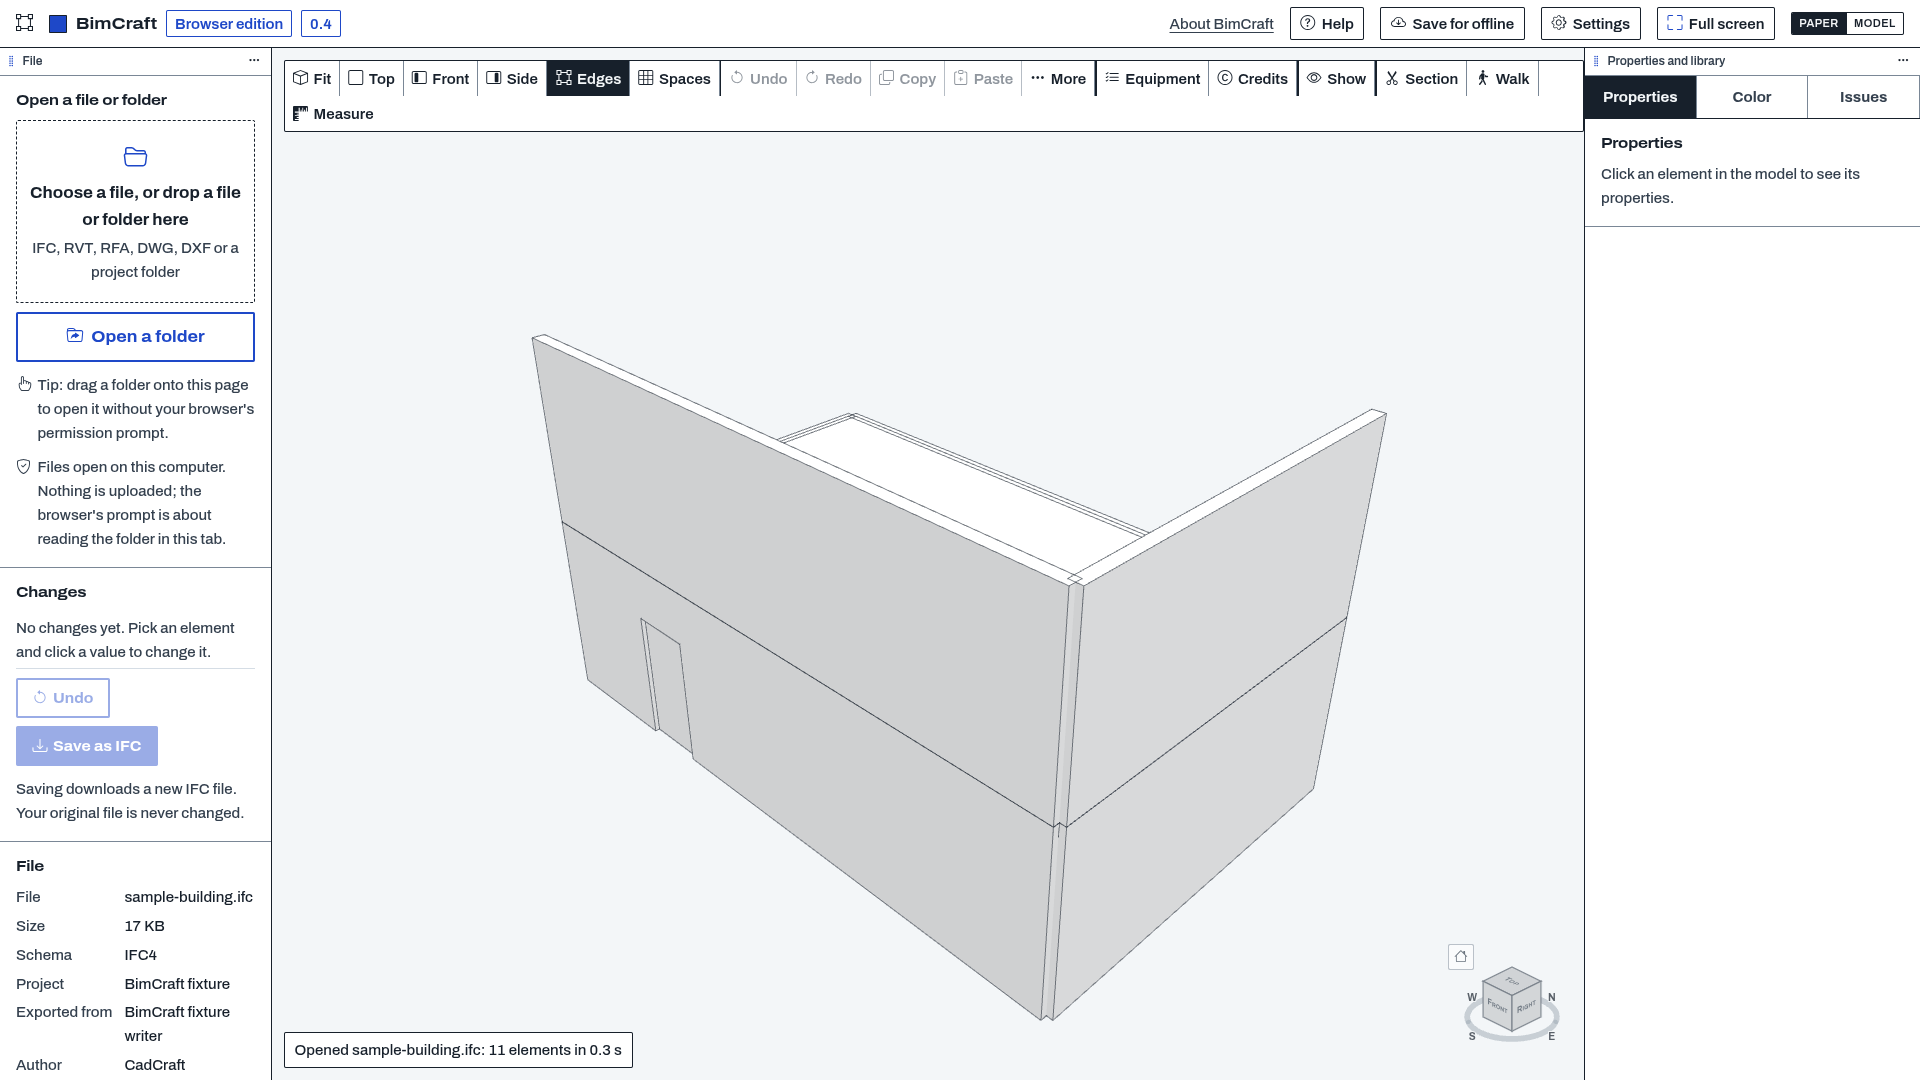
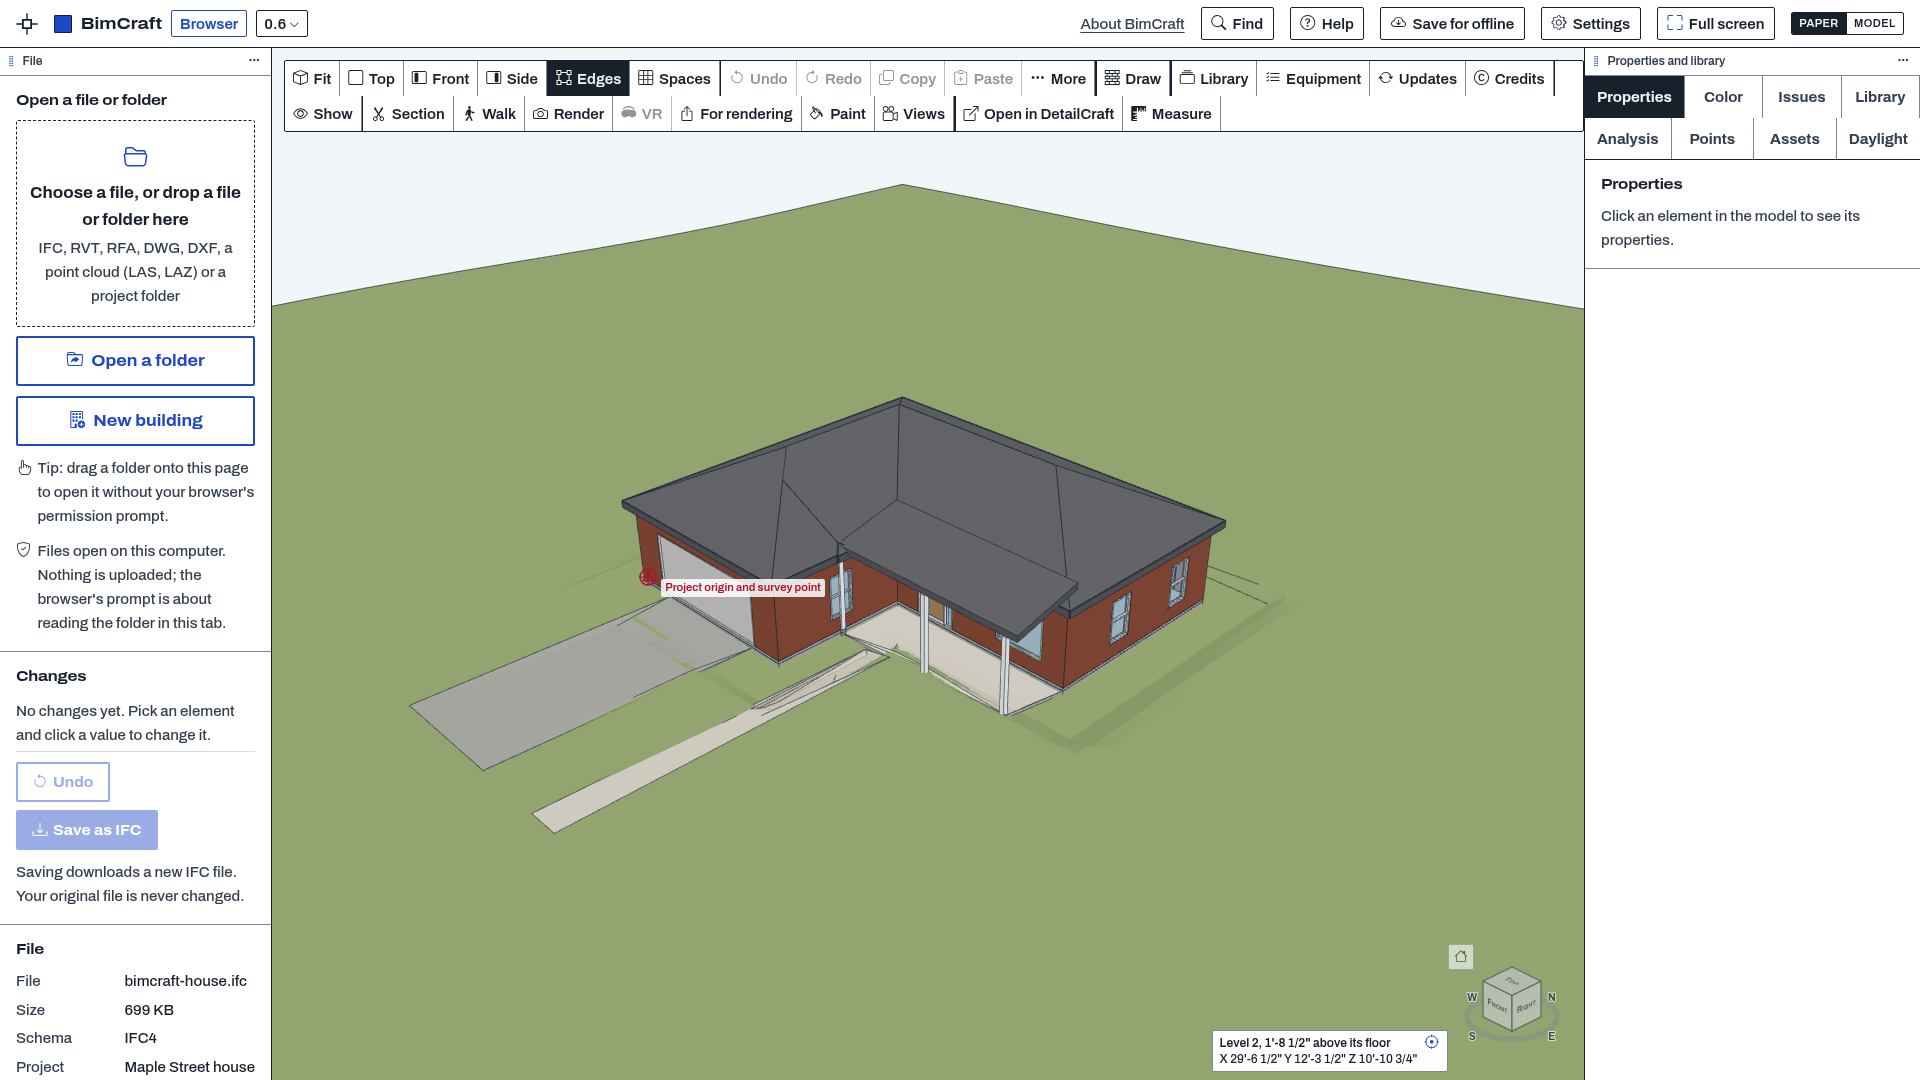
README for 0.6: use links, Studio is the desktop download, platform pages updated (macOS follows, signing and stores in 0.7)

diff --git a/README.md b/README.md
@@ -4,26 +4,25 @@
 
 One model. Every plan, section and schedule.
 
-**[Website](https://getcadcraft.com/apps/bimcraft) | [Try it in your browser](https://getcadcraft.com/try/bimcraft) | [Download](https://getcadcraft.com/download/bimcraft) | [Help and tutorials](https://getcadcraft.com/tutorials/bimcraft) | [News](https://getcadcraft.com/news) | [Suggest a feature](https://getcadcraft.com/suggest)**
+**[Website](https://getcadcraft.com/apps/bimcraft) | [Use it in your browser](https://getcadcraft.com/use/bimcraft) | [Download CadCraft Studio](https://getcadcraft.com/download#studio) | [Help and tutorials](https://getcadcraft.com/tutorials/bimcraft) | [News](https://getcadcraft.com/news) | [Suggest a feature](https://getcadcraft.com/suggest)**
 
-[![BimCraft 0.4](screenshots/paper.png)](https://getcadcraft.com/try/bimcraft)
+[![BimCraft](screenshots/paper.png)](https://getcadcraft.com/use/bimcraft)
 
-<sub>Paper space above; [the same in model space](screenshots/model.png). Both are the 0.4 browser edition.</sub>
+<sub>Paper space above; [the same in model space](screenshots/model.png). Both are from the browser edition.</sub>
 
 BimCraft is the BIM authoring app in the [CadCraft](https://getcadcraft.com) family: Parametric walls, doors and windows on levels and grids, with views, schedules, sheets and clash checks from one model.
 
 ## Use it
 
-Try it now at https://getcadcraft.com/try/bimcraft, or get it for your platform. Your files stay on your computer either way.
+Use it now at https://getcadcraft.com/use/bimcraft, or install CadCraft Studio, which carries all eight apps. Your files stay on your computer either way.
 
 | Platform | Status |
 |---|---|
-| [Browser](web/) | 0.4: `bimcraft-browser-edition-v0.4.0.zip` in [Releases](https://github.com/getcadcraft/bimcraft/releases), or [`web/v0.4/`](web/v0.4/) from a clone |
-| [Windows](windows/) | 0.4: installer in [Releases](https://github.com/getcadcraft/bimcraft/releases) (not code-signed yet) |
-| [Linux](linux/) | 0.4: `.deb` and AppImage in [Releases](https://github.com/getcadcraft/bimcraft/releases); Flathub manifest in [`linux/flathub/`](linux/flathub/) |
-| [macOS](macos/) | Coming in 0.5 |
-| [iPad](ios/) | Planned |
-| [Android](android/) | Planned |
+| [Browser](web/) | 0.6: `bimcraft-browser-edition-v0.6.0.zip` in [Releases](https://github.com/getcadcraft/bimcraft/releases), or [`web/v0.4/`](web/v0.4/) (older) from a clone |
+| Desktop: [Windows](windows/), [Linux](linux/) | In [CadCraft Studio 0.6](https://github.com/getcadcraft/studio/releases/tag/studio-v0.6.0) (installer, `.deb`, AppImage); not code-signed yet |
+| [macOS](macos/) | Studio 0.6 for macOS follows; Studio 0.5 for Mac is on the [download page](https://getcadcraft.com/download#studio) |
+| [Android](android/) | The Studio APK, on the [download page](https://getcadcraft.com/download#studio) |
+| [iPad](ios/) | Planned, in 0.7 at the earliest |
 
 ## Work on it
 

diff --git a/windows/README.md b/windows/README.md
@@ -1,10 +1,6 @@
 # BimCraft for Windows
 
-**Available from 0.4.** Download `BimCraft-0.4-setup.exe` from [Releases](https://github.com/getcadcraft/bimcraft/releases).
-
-The installer is the [browser edition](../web/), unchanged, in a WebView2 window (part of Windows 10 and 11), built by [getcadcraft/desktop-shell](https://github.com/getcadcraft/desktop-shell) (`node build.mjs bimcraft --edition <zip>`). Nothing here to compile.
-
-**Not code-signed yet:** Windows SmartScreen shows "Windows protected your PC"; choose **More info › Run anyway**, and check the file against SHA256SUMS first. The Microsoft Store package follows once it is signed.
+BimCraft comes inside [CadCraft Studio](https://github.com/getcadcraft/studio) (all eight apps in one install) from 0.5 on; there are no separate BimCraft installers any more. Get Studio 0.6 from the [download page](https://getcadcraft.com/download#studio) or its [GitHub release](https://github.com/getcadcraft/studio/releases/tag/studio-v0.6.0). The Windows installer is not code-signed yet: SmartScreen shows "Windows protected your PC"; choose **More info › Run anyway**, and check the file against SHA256SUMS first. Signing and a Microsoft Store build come in 0.7. The 0.4 per-app installer stays on the 0.4 release.
 
 ## File types
 

diff --git a/web/README.md b/web/README.md
@@ -2,8 +2,8 @@
 
 BimCraft as plain files: put the folder on any web server and open it in your browser. No account, no install, nothing to build. Your files stay on your computer.
 
-- **Get it:** `bimcraft-browser-edition-v0.4.0.zip` from [Releases](https://github.com/getcadcraft/bimcraft/releases) (checksum beside it), or the [`v0.4/`](v0.4/) folder from a clone.
-- **Install, servers, updating:** [v0.4/INSTALL.md](v0.4/INSTALL.md).
-- **Try it now:** https://getcadcraft.com/try/bimcraft
+- **Get it:** `bimcraft-browser-edition-v0.6.0.zip` from [Releases](https://github.com/getcadcraft/bimcraft/releases) (checksum beside it). It unzips to a folder with an INSTALL.md that covers servers and updating.
+- **Older edition:** the [`v0.4/`](v0.4/) folder from a clone ([v0.4/INSTALL.md](v0.4/INSTALL.md)).
+- **Use it now:** https://getcadcraft.com/use/bimcraft
 
-Every other platform ships this same folder inside a thin shell.
+On the desktop, BimCraft runs inside [CadCraft Studio](https://github.com/getcadcraft/studio).

diff --git a/macos/README.md b/macos/README.md
@@ -1,5 +1,3 @@
 # BimCraft for macOS
 
-**Coming in 0.5.** Until then, use the [browser edition](../web/) or https://getcadcraft.com/try/bimcraft.
-
-The Mac app will be the same browser edition in a WKWebView window, built by [getcadcraft/desktop-shell](https://github.com/getcadcraft/desktop-shell), as a direct download and in the Mac App Store. Apple builds go live once Apple approves them, usually after the other platforms.
+BimCraft comes inside [CadCraft Studio](https://github.com/getcadcraft/studio). Studio 0.6 for macOS follows; Studio 0.5 for macOS (universal, not code-signed) is on the [download page](https://getcadcraft.com/download#studio) until then. Every app also runs in the browser: https://getcadcraft.com/use/bimcraft.

diff --git a/linux/README.md b/linux/README.md
@@ -1,8 +1,6 @@
 # BimCraft for Linux
 
-**Available from 0.4.** The `.deb` and AppImage are in [Releases](https://github.com/getcadcraft/bimcraft/releases).
-
-Both are the [browser edition](../web/), unchanged, in a WebKitGTK window, built by [getcadcraft/desktop-shell](https://github.com/getcadcraft/desktop-shell).
+BimCraft comes inside [CadCraft Studio](https://github.com/getcadcraft/studio) (all eight apps in one install) from 0.5 on; there are no separate BimCraft installers any more. Get Studio 0.6 from the [download page](https://getcadcraft.com/download#studio) or its [GitHub release](https://github.com/getcadcraft/studio/releases/tag/studio-v0.6.0). Studio ships as a `.deb` and an AppImage.
 
 ## Flathub
 

diff --git a/android/README.md b/android/README.md
@@ -1,5 +1,3 @@
 # BimCraft for Android
 
-**Planned.** Tablets first. Until then, use https://getcadcraft.com/try/bimcraft in Chrome.
-
-The Android app will be the same browser edition in the Android WebView (Tauri mobile, [getcadcraft/desktop-shell](https://github.com/getcadcraft/desktop-shell)), released through Google Play after a touch pass: long-press for right-click, larger targets, touch orbit in 3D.
+BimCraft comes inside CadCraft Studio for Android: the signed APK is on the [download page](https://getcadcraft.com/download#studio) and in the [Studio 0.6 release](https://github.com/getcadcraft/studio/releases/tag/studio-v0.6.0). It is not in Google Play yet (0.7 at the earliest).

diff --git a/ios/README.md b/ios/README.md
@@ -1,5 +1,3 @@
 # BimCraft for iPad
 
-**Planned.** Tablets first. Until then, use https://getcadcraft.com/try/bimcraft in Safari.
-
-The iPad app will be the same browser edition in WKWebView (Tauri mobile, [getcadcraft/desktop-shell](https://github.com/getcadcraft/desktop-shell)), released through the App Store after a touch pass: long-press for right-click, larger targets, touch orbit in 3D.
+**Planned, in 0.7 at the earliest.** There is no iPad or iPhone build yet. Until then, use https://getcadcraft.com/use/bimcraft in Safari.
